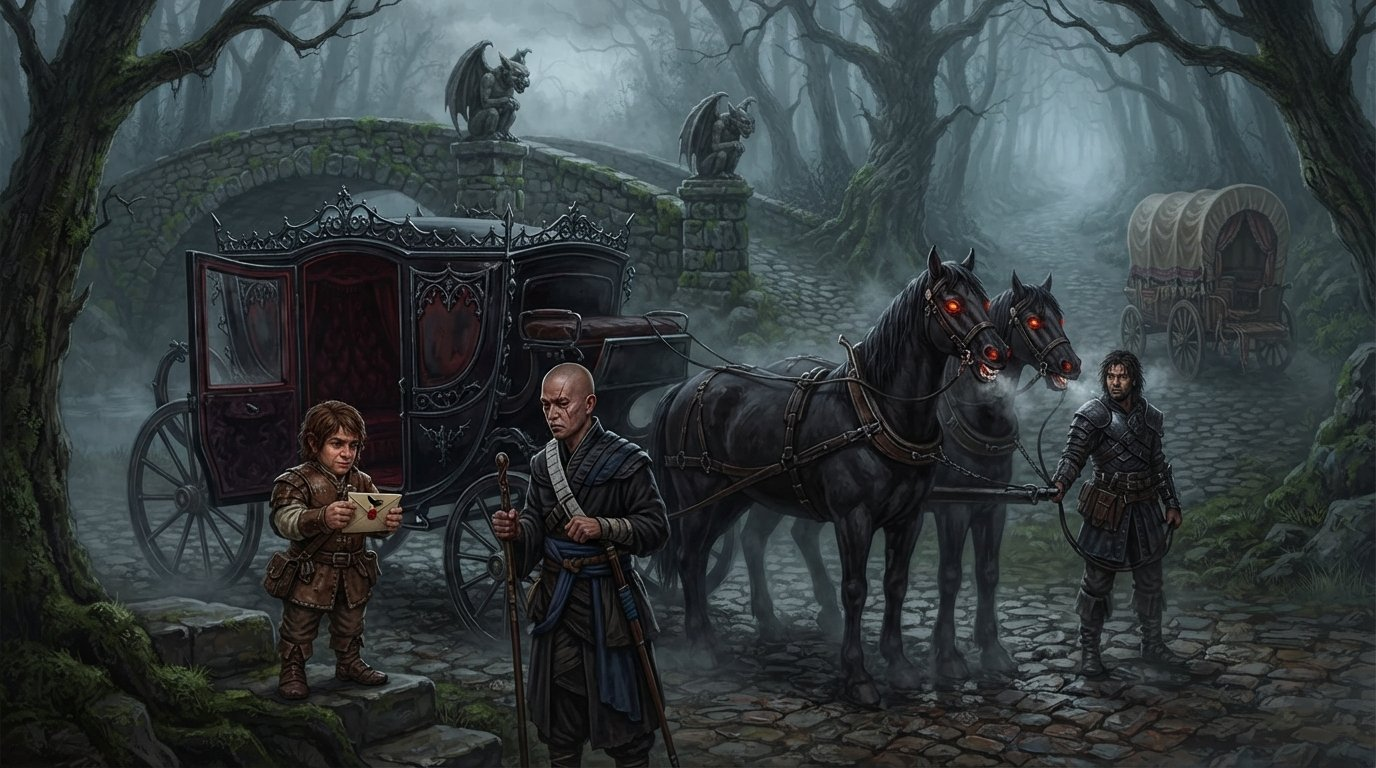
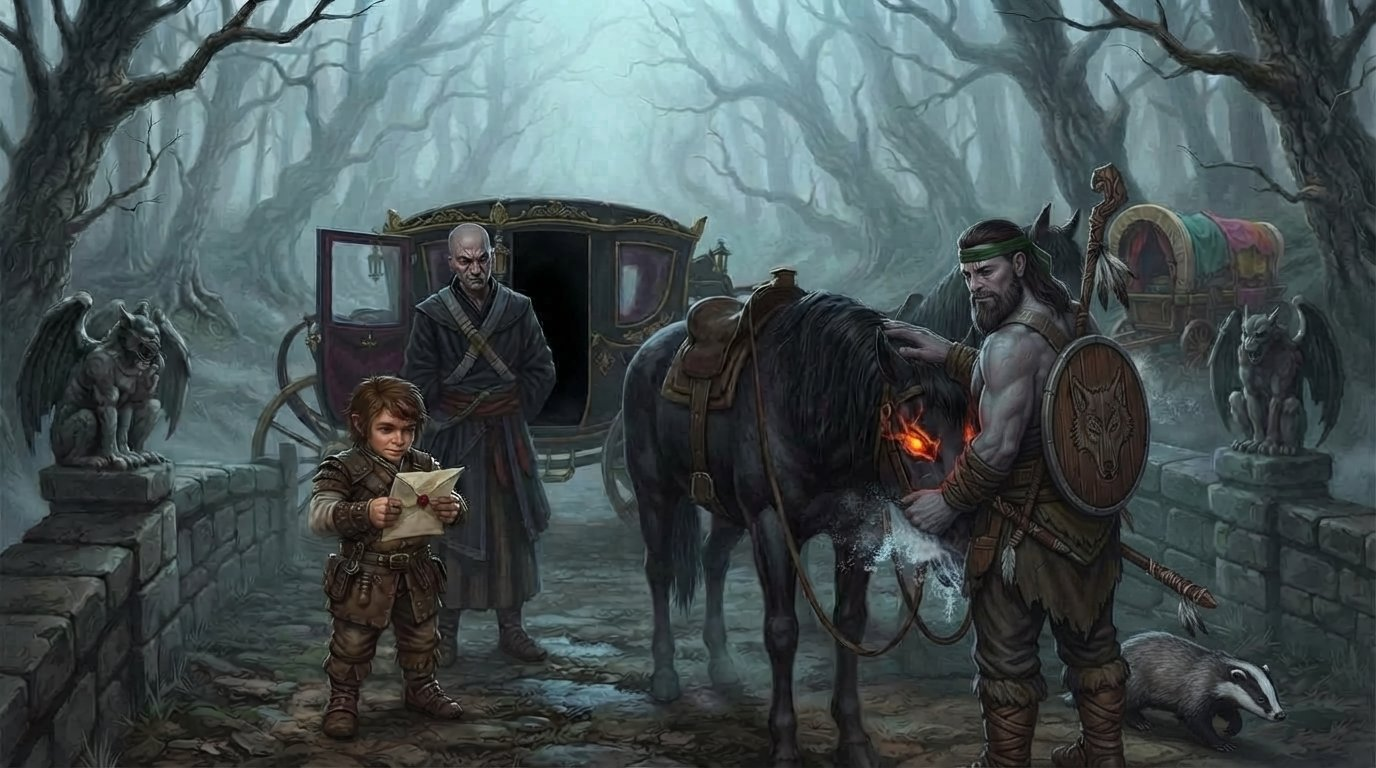
Puntata VI: nuova immagine della carrozza nera
Claude-Session: https://claude.ai/code/session_01KZ29cJR86ajmHEfwVcc3rb

diff --git a/puntata-06.html b/puntata-06.html
@@ -38,7 +38,7 @@
     <p>Al mattino il carro li aspetta, con un cocchiere vistano a cassetta. Passano vicino alle cascate di Tser, attraversano un ponte e superano due gargoyle. Poi i cavalli si fermano. Si ferma anche il cocchiere. In mezzo alla strada c'è una carrozza nera.</p>
     <p>I cavalli che la tirano hanno occhi completamente rossi, e dalla bocca esce un fiato gelido, misto a bava. Lo sportello si apre, ma non scende nessuno. È un invito. Ireena resta immobile: è convinta che sia Strahd. Bastian rimane con lei, mentre gli altri vanno a vedere.</p>
     <p>Logan prova a parlare con i cavalli, che non rispondono. Sulla carrozza c'è una busta; la apre Zane. È una lettera di Strahd, che li invita a cena. Logan prova a spostare la carrozza, ma non ci riesce.</p>
-    <figure class="plate"><img src="img/p06-carrozza-nera.jpg" alt="La carrozza nera con lo sportello aperto e i cavalli dagli occhi rossi oltre il ponte dei gargoyle; Zane apre la lettera sigillata accanto a Chirrut" loading="lazy">
+    <figure class="plate"><img src="img/p06-carrozza-nera.jpg" alt="La carrozza nera con lo sportello aperto e i cavalli dagli occhi rossi oltre il ponte dei gargoyle; Zane apre la lettera sigillata, Chirrut osserva e Logan prova a parlare con i cavalli insieme a Zero" loading="lazy">
       <figcaption>La carrozza nera</figcaption></figure>
     <p>E mentre il gruppo continua a perdere tempo a decidere cosa fare, dalla strada si avvicinano diverse creature che sembrano zombie.</p>
     <h4>Zombie, lupi e cavalli</h4>
